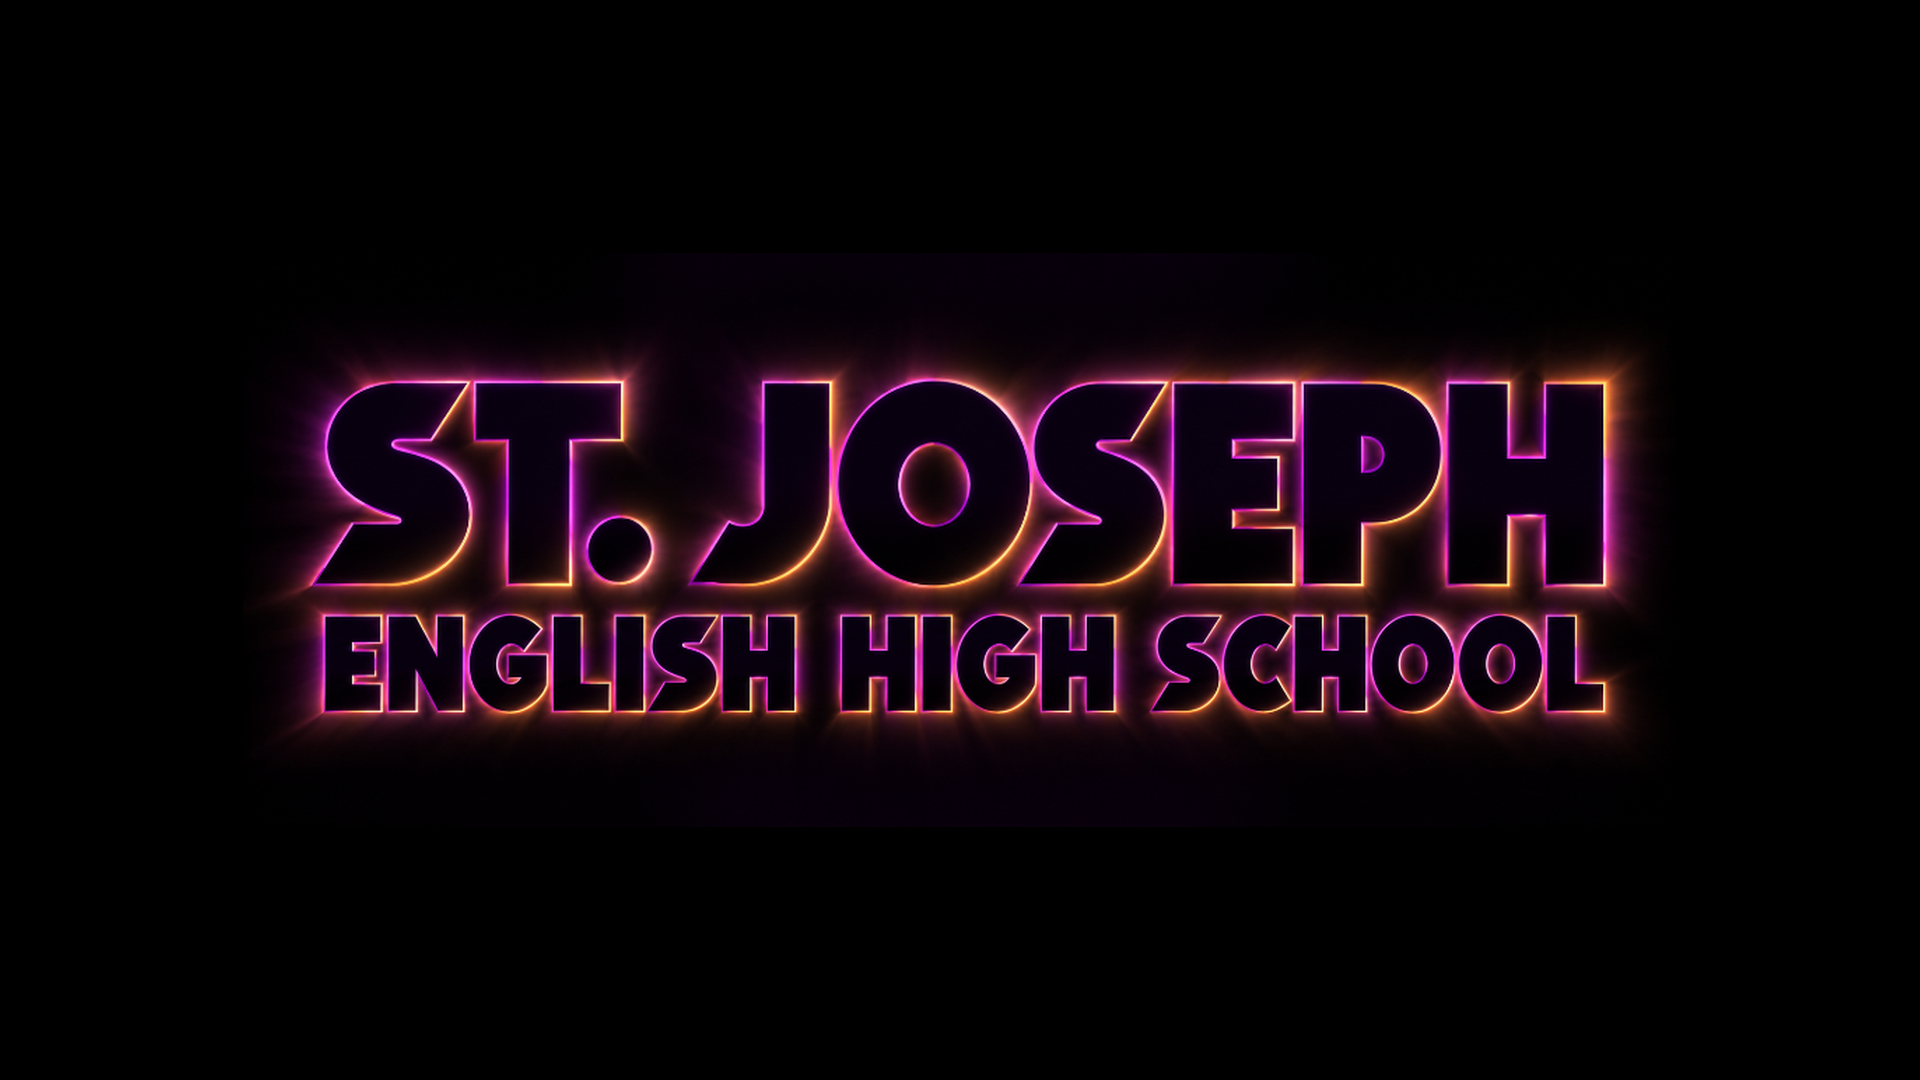
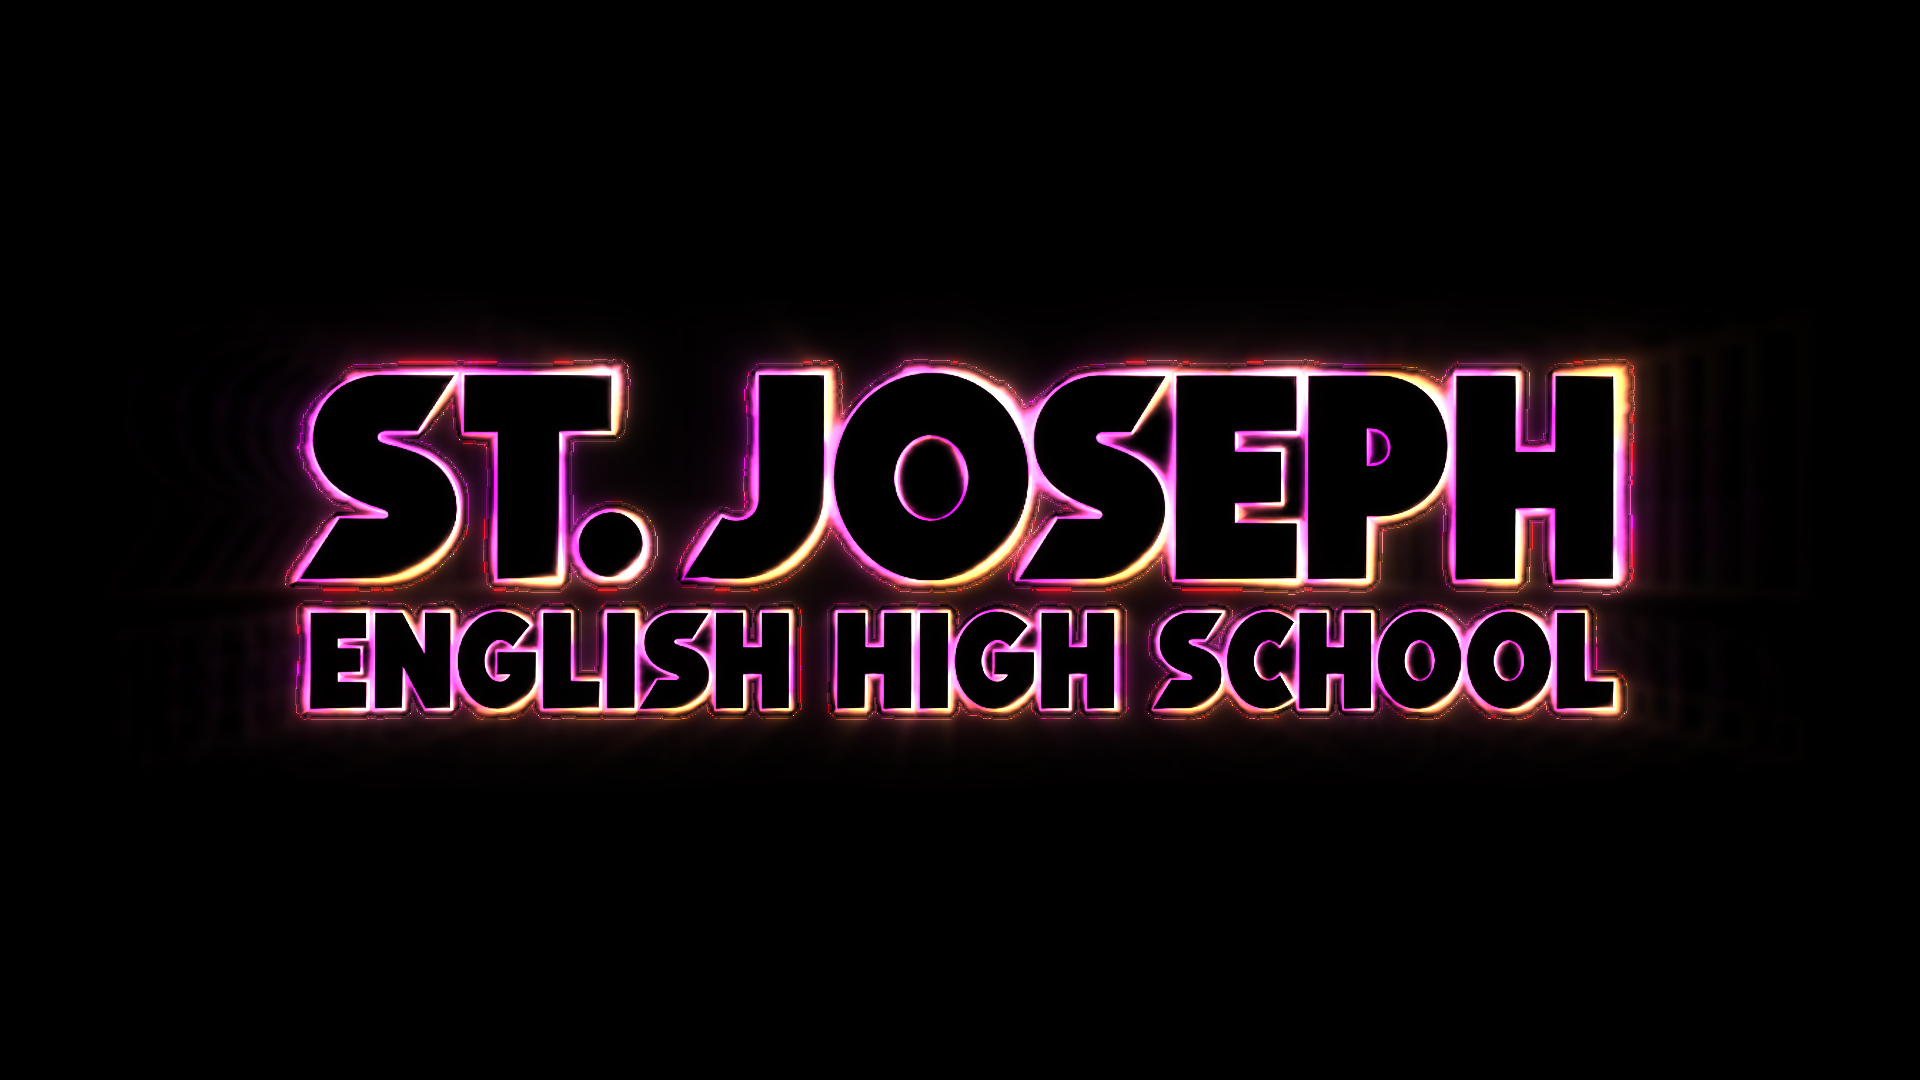
Isolate clean text letterforms, strip image glow, and apply authentic GTA VI volumetric glow science

Changed region(s): [[0.125, 0.3056, 0.875, 0.6722]]

diff --git a/gta6_engine.js b/gta6_engine.js
@@ -256,11 +256,11 @@ class Gta6AnimationEngine {
     const baseImg = isStJoseph ? this.assets.stJosephBase : this.assets.viBase;
 
     // Vertical shadow wipe parameters:
-    // St. Joseph text spans y: 330 to 760
+    // St. Joseph text spans y: 363 to 717
     // VI numeral spans y: 340 to 870
-    const wipeYStartMin = isStJoseph ? 300 : 340;
-    const wipeYStartMax = isStJoseph ? 770 : 870;
-    const wipeGradHeight = isStJoseph ? 90 : 110;
+    const wipeYStartMin = isStJoseph ? 330 : 340;
+    const wipeYStartMax = isStJoseph ? 720 : 870;
+    const wipeGradHeight = isStJoseph ? 85 : 110;
 
     // PHASE 2 & 3: GLOW SCIENCE (0.30s <= t < 4.10s)
     const glowAlpha = this.getGlowIntensity(t);
